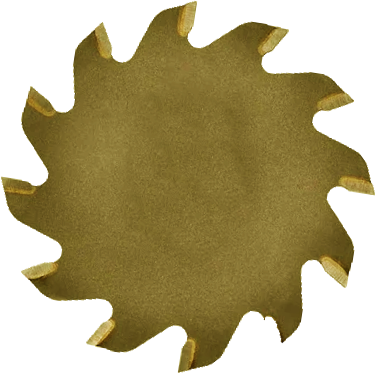
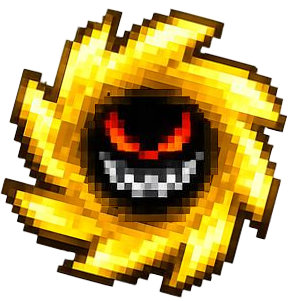
Render captured territory with a tiled wall border
Interior stays a flat fill; horizontal/vertical wall tiles (7px thick)
run along the edges instead. GRID_CELL is now 7 (was 5) so every
captured rectangle is always a multiple of the tile thickness in both
dimensions, guaranteeing the border always fits without gaps.

diff --git a/main.py b/main.py
@@ -16,8 +16,9 @@ from config import (
     PROGRESS_BAR_HEIGHT, PROGRESS_BAR_BG_COLOR, PROGRESS_BAR_COLOR,
     LEADERBOARD_BASE_URL, USERNAME_MAX_LEN, PIN_LENGTH, LEADERBOARD_LIMIT,
     BLUE_BALL_IMAGE_PATH, ISOLATION_BONUS_SCORE,
+    HORIZONTAL_WALL_IMAGE_PATH, VERTICAL_WALL_IMAGE_PATH, WALL_THICKNESS,
 )
-from images import load_image, load_ball_image
+from images import load_image, load_ball_image, load_image_native
 from obstacles import OBSTACLES, make_initial_obstacles
 from ball import Ball
 from cursor import Cursor
@@ -34,6 +35,8 @@ balls = [
 
 default_ball_image = load_ball_image(BALL_IMAGE_PATH)
 blue_ball_image = load_ball_image(BLUE_BALL_IMAGE_PATH)
+horizontal_wall_image = load_image_native(HORIZONTAL_WALL_IMAGE_PATH)
+vertical_wall_image = load_image_native(VERTICAL_WALL_IMAGE_PATH)
 
 cursor = Cursor(
     0,
@@ -86,6 +89,32 @@ def blit_line_parts(surface, x, y, parts, font, color):
             cursor_x += part.get_width() + 4
             line_height = max(line_height, part.get_height())
     return line_height
+
+
+def draw_captured_obstacle(surface, rect, fill_color, h_wall_image, v_wall_image, thickness):
+    # Flat fill for the interior, then a tiled wall border along all four
+    # edges on top - GRID_CELL == thickness guarantees rect is always at
+    # least `thickness` px in both dimensions, so the border always fits
+    pygame.draw.rect(surface, fill_color, rect)
+
+    previous_clip = surface.get_clip()
+    surface.set_clip(rect)
+
+    h_tile_width = h_wall_image.get_width()
+    x = rect.left
+    while x < rect.right:
+        surface.blit(h_wall_image, (x, rect.top))
+        surface.blit(h_wall_image, (x, rect.bottom - thickness))
+        x += h_tile_width
+
+    v_tile_height = v_wall_image.get_height()
+    y = rect.top
+    while y < rect.bottom:
+        surface.blit(v_wall_image, (rect.left, y))
+        surface.blit(v_wall_image, (rect.right - thickness, y))
+        y += v_tile_height
+
+    surface.set_clip(previous_clip)
 
 
 # Main async loop (works both on desktop and on the web via pygbag)
@@ -357,7 +386,13 @@ async def main():
         cursor.update_animation()
 
         for obstacle in OBSTACLES:
-            pygame.draw.rect(screen, obstacle.color, obstacle.rect)
+            if obstacle.is_frame:
+                pygame.draw.rect(screen, obstacle.color, obstacle.rect)
+            else:
+                draw_captured_obstacle(
+                    screen, obstacle.rect, obstacle.color,
+                    horizontal_wall_image, vertical_wall_image, WALL_THICKNESS,
+                )
 
         if cursor.drawing and len(cursor.trail) >= 1:
             pygame.draw.lines(screen, LINE_COLOR, False, cursor.trail + [(cursor.x, cursor.y)], TRAIL_LINE_WIDTH)

diff --git a/config.py b/config.py
@@ -44,8 +44,11 @@ BALL_BONUS_PER_BALL = 0.5
 PLAY_FIELD_AREA = (SCREEN_WIDTH - 2 * FRAME_WIDTH) * (SCREEN_HEIGHT - FRAME_WIDTH - BOTTOM_FRAME_WIDTH)
 
 # Grid for finding areas enclosed by the line (including when the line runs
-# from one rectangle/frame to another without forming a loop by itself)
-GRID_CELL = 5
+# from one rectangle/frame to another without forming a loop by itself).
+# 7px matches WALL_THICKNESS below, so every captured rectangle is always
+# a multiple of the wall tile thickness in both dimensions - never thinner
+# than a single tile, so the border always renders cleanly
+GRID_CELL = 7
 GRID_COLS = SCREEN_WIDTH // GRID_CELL
 GRID_ROWS = SCREEN_HEIGHT // GRID_CELL
 
@@ -98,6 +101,13 @@ CURSOR_INPUT_DEBOUNCE_FRAMES = 3
 # frames before it's actually allowed, to avoid accidentally peeling off
 CURSOR_WALL_SNAP_DISTANCE = 3
 CURSOR_WALL_LEAVE_DELAY_FRAMES = 5
+
+# Captured territory gets a tiled wall border around its edges instead of a
+# plain flat rectangle - horizontal tiles run along the top/bottom edges,
+# vertical tiles along the left/right edges, both WALL_THICKNESS px thick
+HORIZONTAL_WALL_IMAGE_PATH = "pics/horizontwall.png"
+VERTICAL_WALL_IMAGE_PATH = "pics/verticalwall.png"
+WALL_THICKNESS = 7
 
 TRAIL_LINE_WIDTH = 3
 

diff --git a/images.py b/images.py
@@ -12,3 +12,9 @@ def load_image(path, size):
 
 def load_ball_image(path, size=BALL_IMAGE_SIZE):
     return load_image(path, size)
+
+
+def load_image_native(path):
+    # Like load_image, but keeps the file's own size - for tile images that
+    # are already exactly the size they need to be drawn at
+    return pygame.image.load(path).convert_alpha()